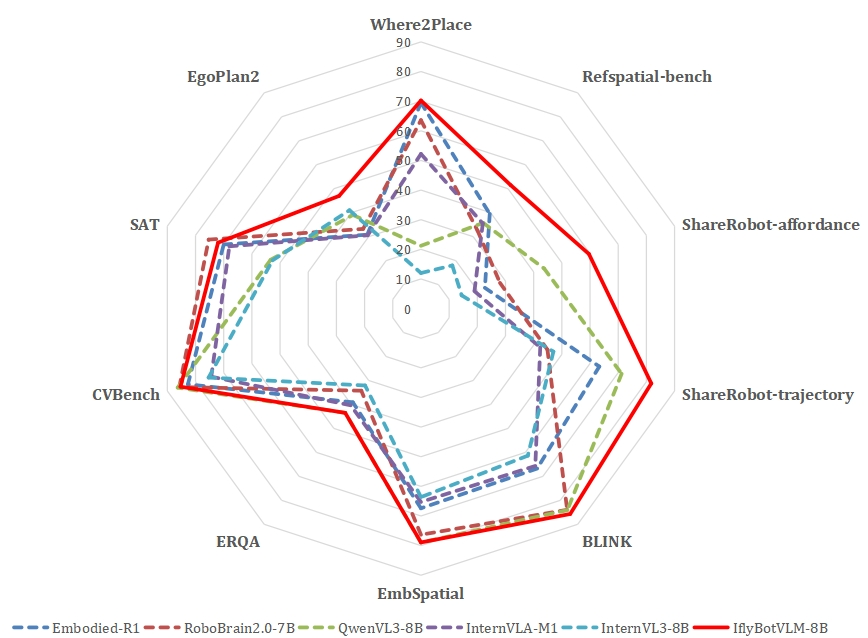
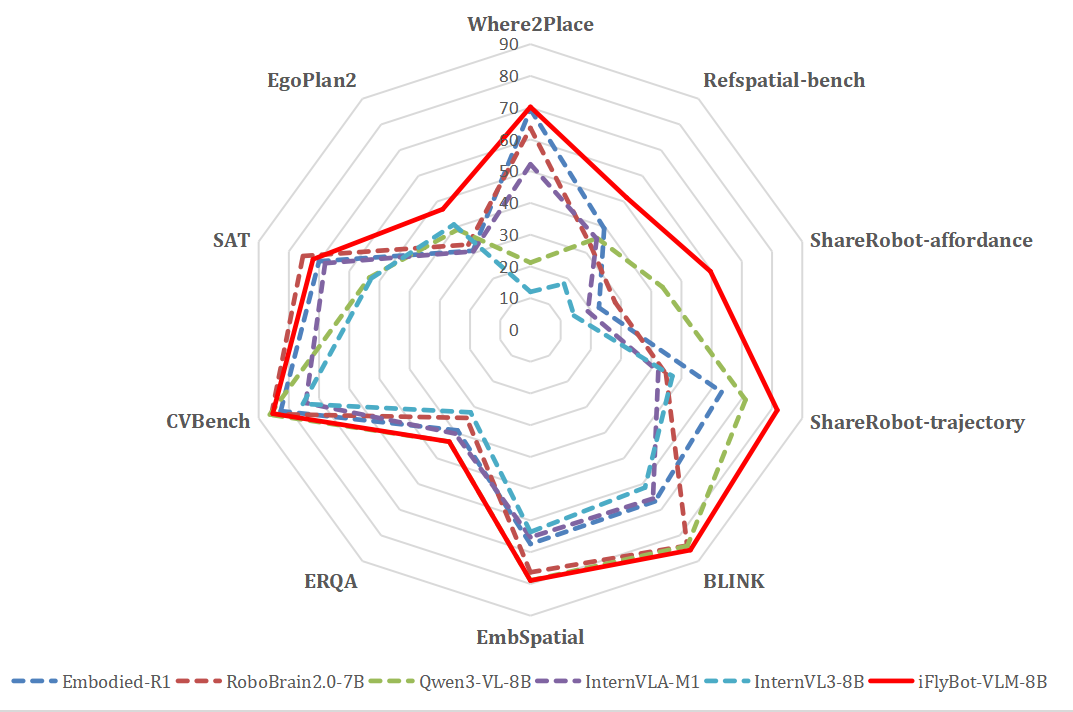
modified border and images

diff --git a/index.html b/index.html
@@ -177,6 +177,55 @@
     ]
   }
   </script>
+
+  <!-- ✅ 把这段放在这里 -->
+  <style>
+    /* 统一内容轨道：控制最大宽度与左右内边距，保证左对齐一致 */
+    .align-rail {
+      max-width: 1024px;
+      margin: 0 auto;
+      padding: 0 1.25rem;
+      box-sizing: border-box;
+    }
+
+    .align-rail * {
+      box-sizing: inherit;
+    }
+
+    .video-wrap {
+      position: relative;
+      width: 100%;
+      padding-bottom: 56.25%;
+      height: 0;
+      overflow: hidden;
+      border-radius: 12px;
+    }
+    .video-wrap iframe {
+      position: absolute; inset: 0;
+      width: 100%; height: 100%;
+    }
+
+    #results-carousel {
+      width: 100%;
+      margin: 0;
+    }
+    #results-carousel .item {
+      padding: 0;
+    }
+    #results-carousel .item img {
+      display: block;
+      width: 100%;
+      max-width: 100%;
+      height: auto;
+      object-fit: contain;
+      border-radius: 12px;
+    }
+
+    @media (max-width: 480px) {
+      .align-rail { padding: 0 1rem; }
+    }
+  </style>
+
 </head>
 <body>
 
@@ -515,7 +564,7 @@
           </div>
 
           <div class="item item-image3">
-            <img src="assets/images/benchmark_performance.jpg"
+            <img src="assets/images/benchmark_performance.png"
                  alt="Benchmark performance chart"
                  loading="lazy"
                  style="max-width:100%; height:auto; display:block; margin:auto; border-radius:12px;">
